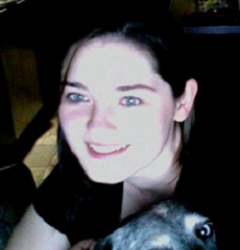
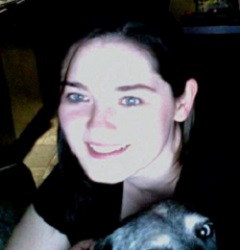
Deleted duplicate files
Fixed email hotlinks and I think i got nina to be 250x250 instead of
240x250

diff --git a/temp/temp/iPearProjectPage.html b/temp/temp/iPearProjectPage.html
@@ -86,7 +86,7 @@
                         <div class="overlay">
                             <div class="recent-work-inner">
                             <H3 class="preview">Alex Yang</H3>
-                                <h3><a href="mailto:aey25@drexel.edu">Alex's email</a> </h3>
+                                <h3><a href="mailto:aey25@drexel.edu">aey25@drexel.edu</a> </h3>
                                 <!-- <p><I><a class="preview" href="http://cci.drexel.edu/SeniorDesign">www.TeamMember1Website.com</a></I></p> -->
                             </div> 
                         </div>
@@ -99,7 +99,7 @@
                         <div class="overlay">
                             <div class="recent-work-inner">
                             <H3 class="preview">Austin Schaeffer</H3>
-                                <h3><a href="mailto:als427@drexel.edu">Austin's email</a> </h3>
+                                <h3><a href="mailto:als427@drexel.edu">als427@drexel.edu</a> </h3>
                                 <!-- <p><I><a class="preview" href="http://cci.drexel.edu/SeniorDesign">www.TeamMember2Website.com</a></I></p> -->
                             </div> 
                         </div>
@@ -112,7 +112,7 @@
                         <div class="overlay">
                             <div class="recent-work-inner">
                             <H3 class="preview">Chris Ozgar</H3>
-                                <h3><a href="mailto:cjo42@drexel.edu">Chris's email</a> </h3>
+                                <h3><a href="mailto:cjo42@drexel.edu">cjo42@drexel.edu</a> </h3>
                                 <!-- <p><I><a class="preview" href="http://cci.drexel.edu/SeniorDesign">www.TeamMember3Website.com</a></I></p> -->
                             </div> 
                         </div>
@@ -125,7 +125,7 @@
                         <div class="overlay">
                             <div class="recent-work-inner">
                             <H3 class="preview">Daniel Lopez</H3>
-                                <h3><a href="mailto:Dml338@drexel.edu">Daniel's email</a> </h3>
+                                <h3><a href="mailto:Dml338@drexel.edu">dml338@drexel.edu</a> </h3>
                                 <!-- <p><I><a class="preview" href="http://cci.drexel.edu/SeniorDesign">www.TeamMember4Website.com</a></I></p> -->
                             </div> 
                         </div>
@@ -142,7 +142,7 @@
                         <div class="overlay">
                             <div class="recent-work-inner">
                             <H3 class="preview">Nathan Andrews</H3>
-                                <h3><a href="mailto:npa27@drexel.edu">Nathan's email</a> </h3>
+                                <h3><a href="mailto:npa27@drexel.edu">npa27@drexel.edu</a> </h3>
                                 <!-- <p><I><a class="preview" href="http://cci.drexel.edu/SeniorDesign">www.TeamMember5Website.com</a></I></p> -->
                             </div> 
                         </div>
@@ -155,7 +155,7 @@
                         <div class="overlay">
                             <div class="recent-work-inner">
                             <H3 class="preview">Nina Huenke</H3>
-                                <h3><a href="mailto:nkh29@drexel.edu">Nina's email</a> </h3>
+                                <h3><a href="mailto:nkh29@drexel.edu">nkh29@drexel.edu</a> </h3>
                                 <!--  <p><I><a class="preview" href="http://cci.dremexel.edu/SeniorDesign">www.TeamMember7Website.com</a></I></p> -->
                             </div> 
                         </div>
